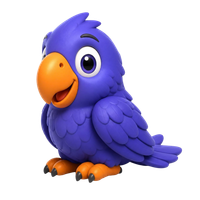
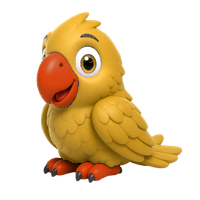
Draw the design system's Mark and Mocki in the product's mustard
The product moved its mark and Mocki's six stages to mustard in 5707f1f;
design-system/ kept the indigo tile and the violet PNGs, and no test could
see it, because brand art is literals rather than tokens. The mark now has
the mustard tile, red-orange beak and ink eye, Mascot ships the product's
PNGs, and their contracts, guidance and previews say so (Mark 1.0.1,
Mascot 0.1.1). A test compares the mark's colours with web's mark.tsx and
the six PNGs byte for byte with web/public/avatars.

diff --git a/design-system/src/components/Mascot/Mascot.contract.ts b/design-system/src/components/Mascot/Mascot.contract.ts
@@ -64,7 +64,7 @@ export const MascotContract = defineContract({
       { attribute: "alt (translation)", managedBy: "consumer", note: "The default alt is Spanish. Any other locale must pass its own alt." },
     ],
     reducedMotion: "Nothing to reduce: the component does not move. Wrappers that animate it (PopIn, the level-up spring) check prefers-reduced-motion themselves.",
-    contrast: "An illustration, not text or a control, so WCAG 1.4.3 and 1.4.11 do not apply. The transparent PNG sits on any surface; the saturated indigo body reads on both themes' cards, and the drop shadow (black at 12%) only grounds it.",
+    contrast: "An illustration, not text or a control, so WCAG 1.4.3 and 1.4.11 do not apply. The transparent PNG sits on any surface; the saturated mustard body reads on both themes' cards, and the drop shadow (black at 12%) only grounds it.",
     focus: "Never focusable.",
     targetSize: "not interactive",
     screenReader: "Announced as its alt (\"Mocki, nivel 3\", image) unless decorative. Sighted users see which form it is; the default alt gives the stage as a number, not the form's description.",
@@ -136,6 +136,9 @@ export const MascotContract = defineContract({
       "Drops the axis prop, which the app's copy accepted and ignored.",
     ],
   },
-  version: "0.1.0",
-  changelog: [{ version: "0.1.0", changes: ["First version: Mocki's six stages as a self-contained component, with a localisable alt and a decorative mode."] }],
+  version: "0.1.1",
+  changelog: [
+    { version: "0.1.1", changes: ["The six stages recoloured from violet to mustard, the same PNGs the product ships in public/avatars/."] },
+    { version: "0.1.0", changes: ["First version: Mocki's six stages as a self-contained component, with a localisable alt and a decorative mode."] },
+  ],
 });

diff --git a/design-system/test/contracts.test.ts b/design-system/test/contracts.test.ts
@@ -146,3 +146,31 @@ describe.each(catalog.map((entry) => [entry.name, entry] as const))("%s", (name,
     expect(source).not.toMatch(/useT\(|useLocale\(|useThesisT\(/);
   });
 });
+
+// The brand art is the one place the system keeps literals instead of tokens,
+// so the token tests cannot see it drift. Compare it with the product's own
+// copy directly: the same colours in the mark, the same bytes in Mocki.
+describe("the brand art", () => {
+  const WEB = path.resolve(__dirname, "../../web");
+  const hexes = (text: string) =>
+    new Set(
+      [...text.matchAll(/#([0-9a-f]{6}|[0-9a-f]{3})\b/gi)].map((m) => {
+        const h = m[1]!;
+        return (h.length === 3 ? [...h].map((c) => c + c).join("") : h).toUpperCase();
+      }),
+    );
+
+  it.runIf(existsSync(path.join(WEB, "src/design-system/mark.tsx")))("draws the mark in the product's colours", () => {
+    const product = readFileSync(path.join(WEB, "src/design-system/mark.tsx"), "utf8");
+    const system = readFileSync(path.resolve(__dirname, "../src/components/Mark/Mark.tsx"), "utf8").match(/const BRAND = \{[\s\S]*?\}/)![0];
+    expect([...hexes(system)].sort()).toEqual([...hexes(product.slice(product.indexOf("<svg")))].sort());
+  });
+
+  it.runIf(existsSync(path.join(WEB, "public/avatars")))("ships the product's six Mocki stages", () => {
+    for (let level = 1; level <= 6; level += 1) {
+      const product = readFileSync(path.join(WEB, `public/avatars/level-${level}.png`));
+      const system = readFileSync(path.resolve(__dirname, `../src/components/Mascot/assets/level-${level}.png`));
+      expect(system.equals(product), `Mascot level-${level}.png differs from web/public/avatars`).toBe(true);
+    }
+  });
+});

diff --git a/design-system/src/components/Mark/Mark.contract.ts b/design-system/src/components/Mark/Mark.contract.ts
@@ -4,7 +4,7 @@ export const MarkContract = defineContract({
   name: "Mark",
   level: "atom",
   status: "stable",
-  summary: "The isologo: Mocki the parrot as three shapes on the indigo tile, in the brand's fixed colours, legible down to 16px.",
+  summary: "The isologo: Mocki the parrot as three shapes on the mustard tile, in the brand's fixed colours, legible down to 16px.",
   source: "src/components/Mark/Mark.tsx",
   composes: [],
   dependencies: [],
@@ -111,6 +111,9 @@ export const MarkContract = defineContract({
       "The colours are named constants (BRAND.tile, BRAND.beak, BRAND.head, BRAND.eye) instead of inline literals; the values are identical (#fff is written #FFFFFF).",
     ],
   },
-  version: "1.0.0",
-  changelog: [{ version: "1.0.0", changes: ["First documented version, extracted from the product.", "Added the optional label for a mark that stands alone."] }],
+  version: "1.0.1",
+  changelog: [
+    { version: "1.0.1", changes: ["Mustard tile (#F6B733), red-orange beak (#D9481C) and ink eye (#2E2D2A), as the product's mark has been since the amber restyle."] },
+    { version: "1.0.0", changes: ["First documented version, extracted from the product.", "Added the optional label for a mark that stands alone."] },
+  ],
 });

diff --git a/design-system/src/components/Mark/Mark.tsx b/design-system/src/components/Mark/Mark.tsx
@@ -3,16 +3,15 @@
  *
  * These are the only hex literals in the system and they stay literals: a
  * logo that changes colour with the theme is two logos. The tile happens to
- * equal the light theme's accent (#5856D6) but is not read from `--accent`,
- * because the dark theme's accent is a different indigo (#5E5CE6) and the mark
- * must be the same drawing everywhere. `public/favicon.svg` in the product is
+ * equal the accent (#F6B733, in both themes) but is not read from `--accent`:
+ * the accent may move again, and the mark must be the same drawing everywhere. `public/favicon.svg` in the product is
  * the same drawing; keep the two in step.
  */
 const BRAND = {
-  tile: "#5856D6",
-  beak: "#EF9F27",
+  tile: "#F6B733",
+  beak: "#D9481C",
   head: "#FFFFFF",
-  eye: "#26215C",
+  eye: "#2E2D2A",
 } as const;
 
 export interface MarkProps {
@@ -30,7 +29,7 @@ export interface MarkProps {
 
 /**
  * The isologo: Mocki, the parrot, reduced to three shapes — head, crest and
- * beak — on the brand's indigo tile.
+ * beak — on the brand's mustard tile.
  *
  * Reduced so it still reads at 16px in a browser tab. Inline rather than an
  * <img>, so it is there on the first paint and needs no request.

diff --git a/design-system/src/components/Mark/Mark.previews.tsx b/design-system/src/components/Mark/Mark.previews.tsx
@@ -44,7 +44,7 @@ export const MarkPreviews = definePreviews([
     id: "both-themes",
     title: "The same on both grounds",
     kind: "variant",
-    description: "The colours are the brand's, not the theme's: the tile is the same indigo on black and on white.",
+    description: "The colours are the brand's, not the theme's: the tile is the same mustard on black and on white.",
     render: () => (
       <div className="flex gap-3">
         <div className="grid h-20 w-20 place-items-center rounded-card bg-black">

diff --git a/design-system/src/components/Mark/Mark.md b/design-system/src/components/Mark/Mark.md
@@ -7,18 +7,19 @@ status: stable
 # Mark
 
 The isologo. Mocki, the parrot, reduced to three shapes — head, crest and
-beak — on the indigo tile. A parrot because parrots learn to speak by
+beak — on the mustard tile. A parrot because parrots learn to speak by
 repeating out loud, which is all this product asks of someone; reduced so it
 still reads at 16px in a browser tab. The same drawing is the product's
 `public/favicon.svg`, and the two are kept in step.
 
 ## Anatomy
 
-1. **Tile** — a 64×64 rounded square (`rx` 15), indigo `#5856D6`.
+1. **Tile** — a 64×64 rounded square (`rx` 15), mustard `#F6B733`.
 2. **Crest** — the white curl at the top left.
 3. **Head** — a white circle, slightly left of centre.
-4. **Eye** — a deep indigo dot, `#26215C`, looking forward.
-5. **Beak** — orange `#EF9F27`, pointing right. The only warm shape.
+4. **Eye** — a warm ink dot, `#2E2D2A`, looking forward.
+5. **Beak** — red-orange `#D9481C`, pointing right, deep enough to stand off
+   the tile.
 
 It is an inline SVG, not an `<img>`: it is there on the first paint and costs
 no request.
@@ -26,17 +27,16 @@ no request.
 ## Colour
 
 The four colours are literals, and the only hex values in the system. That is
-deliberate: a logo that follows the theme is two logos. The tile equals the
-light theme's `--accent` today but is not read from it — the dark theme's
-accent is a different indigo (`#5E5CE6`), and the mark must be one drawing on
-every ground.
+deliberate: a logo that follows the theme is two logos. The tile equals
+`--accent` today, in both themes, but is not read from it — the accent may
+move again, and the mark must stay one drawing on every ground.
 
 | Part | Colour |
 | --- | --- |
-| Tile | `#5856D6` |
+| Tile | `#F6B733` |
 | Head and crest | `#FFFFFF` |
-| Eye | `#26215C` |
-| Beak | `#EF9F27` |
+| Eye | `#2E2D2A` |
+| Beak | `#D9481C` |
 
 ## When to use it
 
